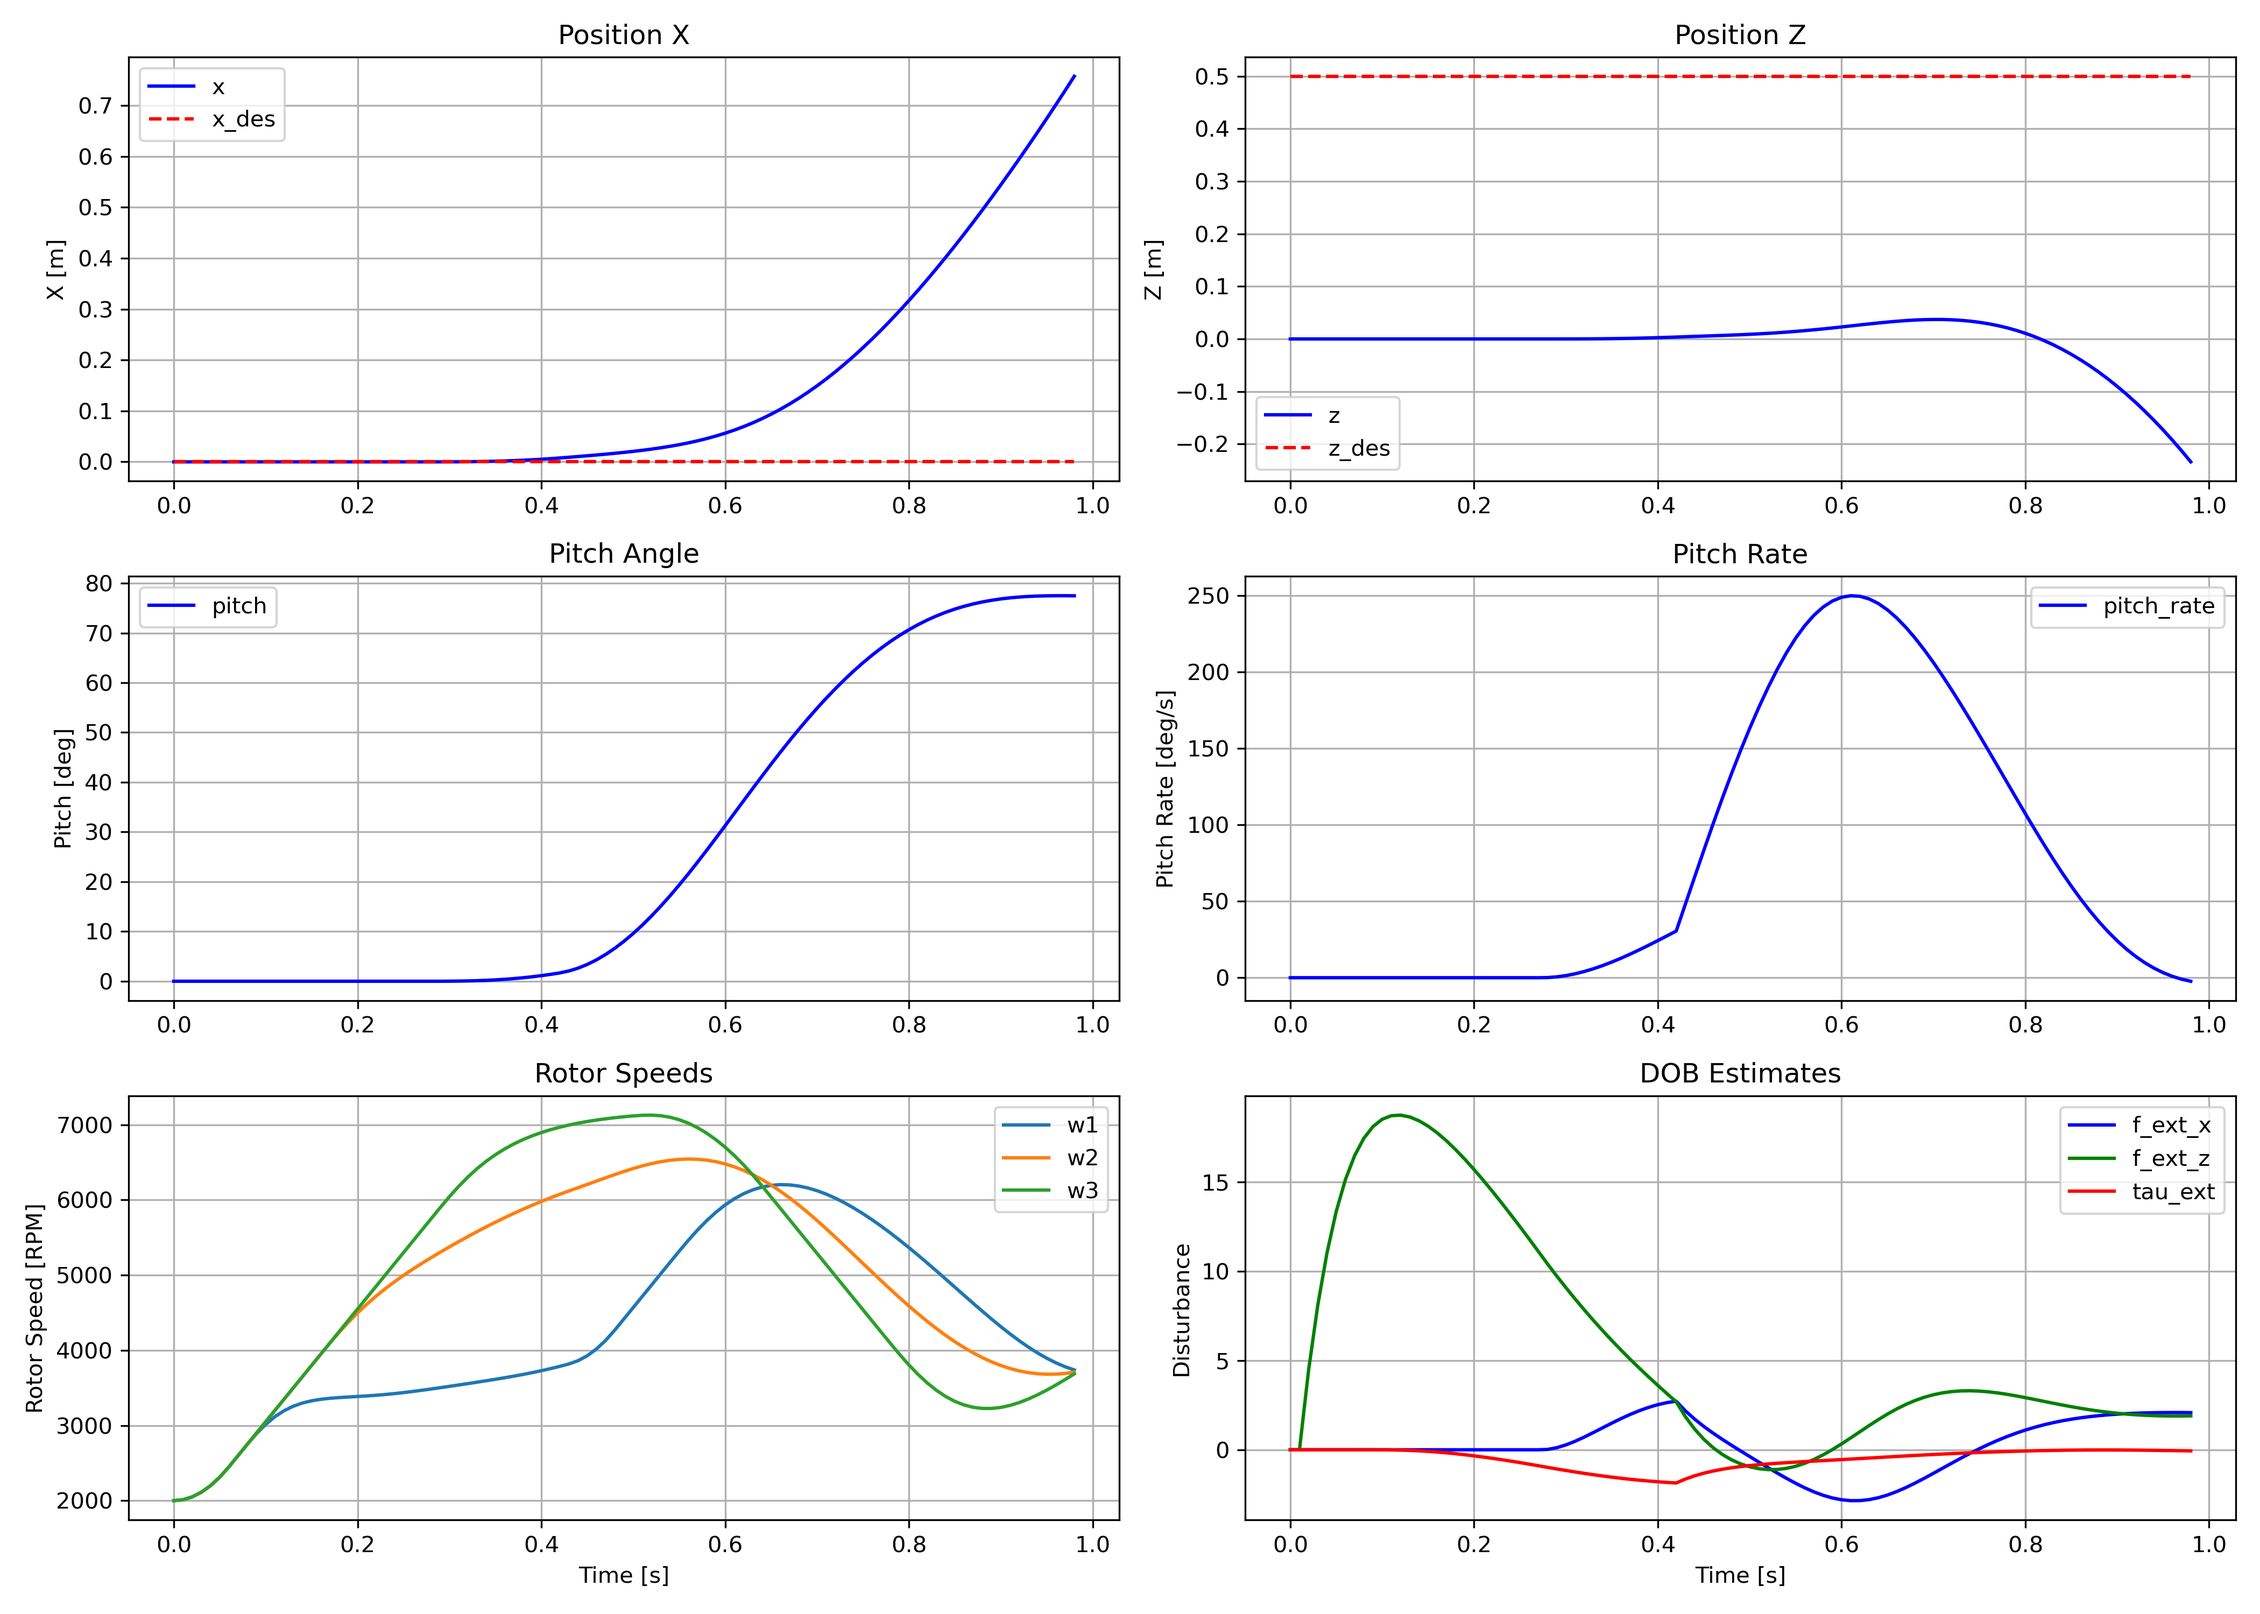
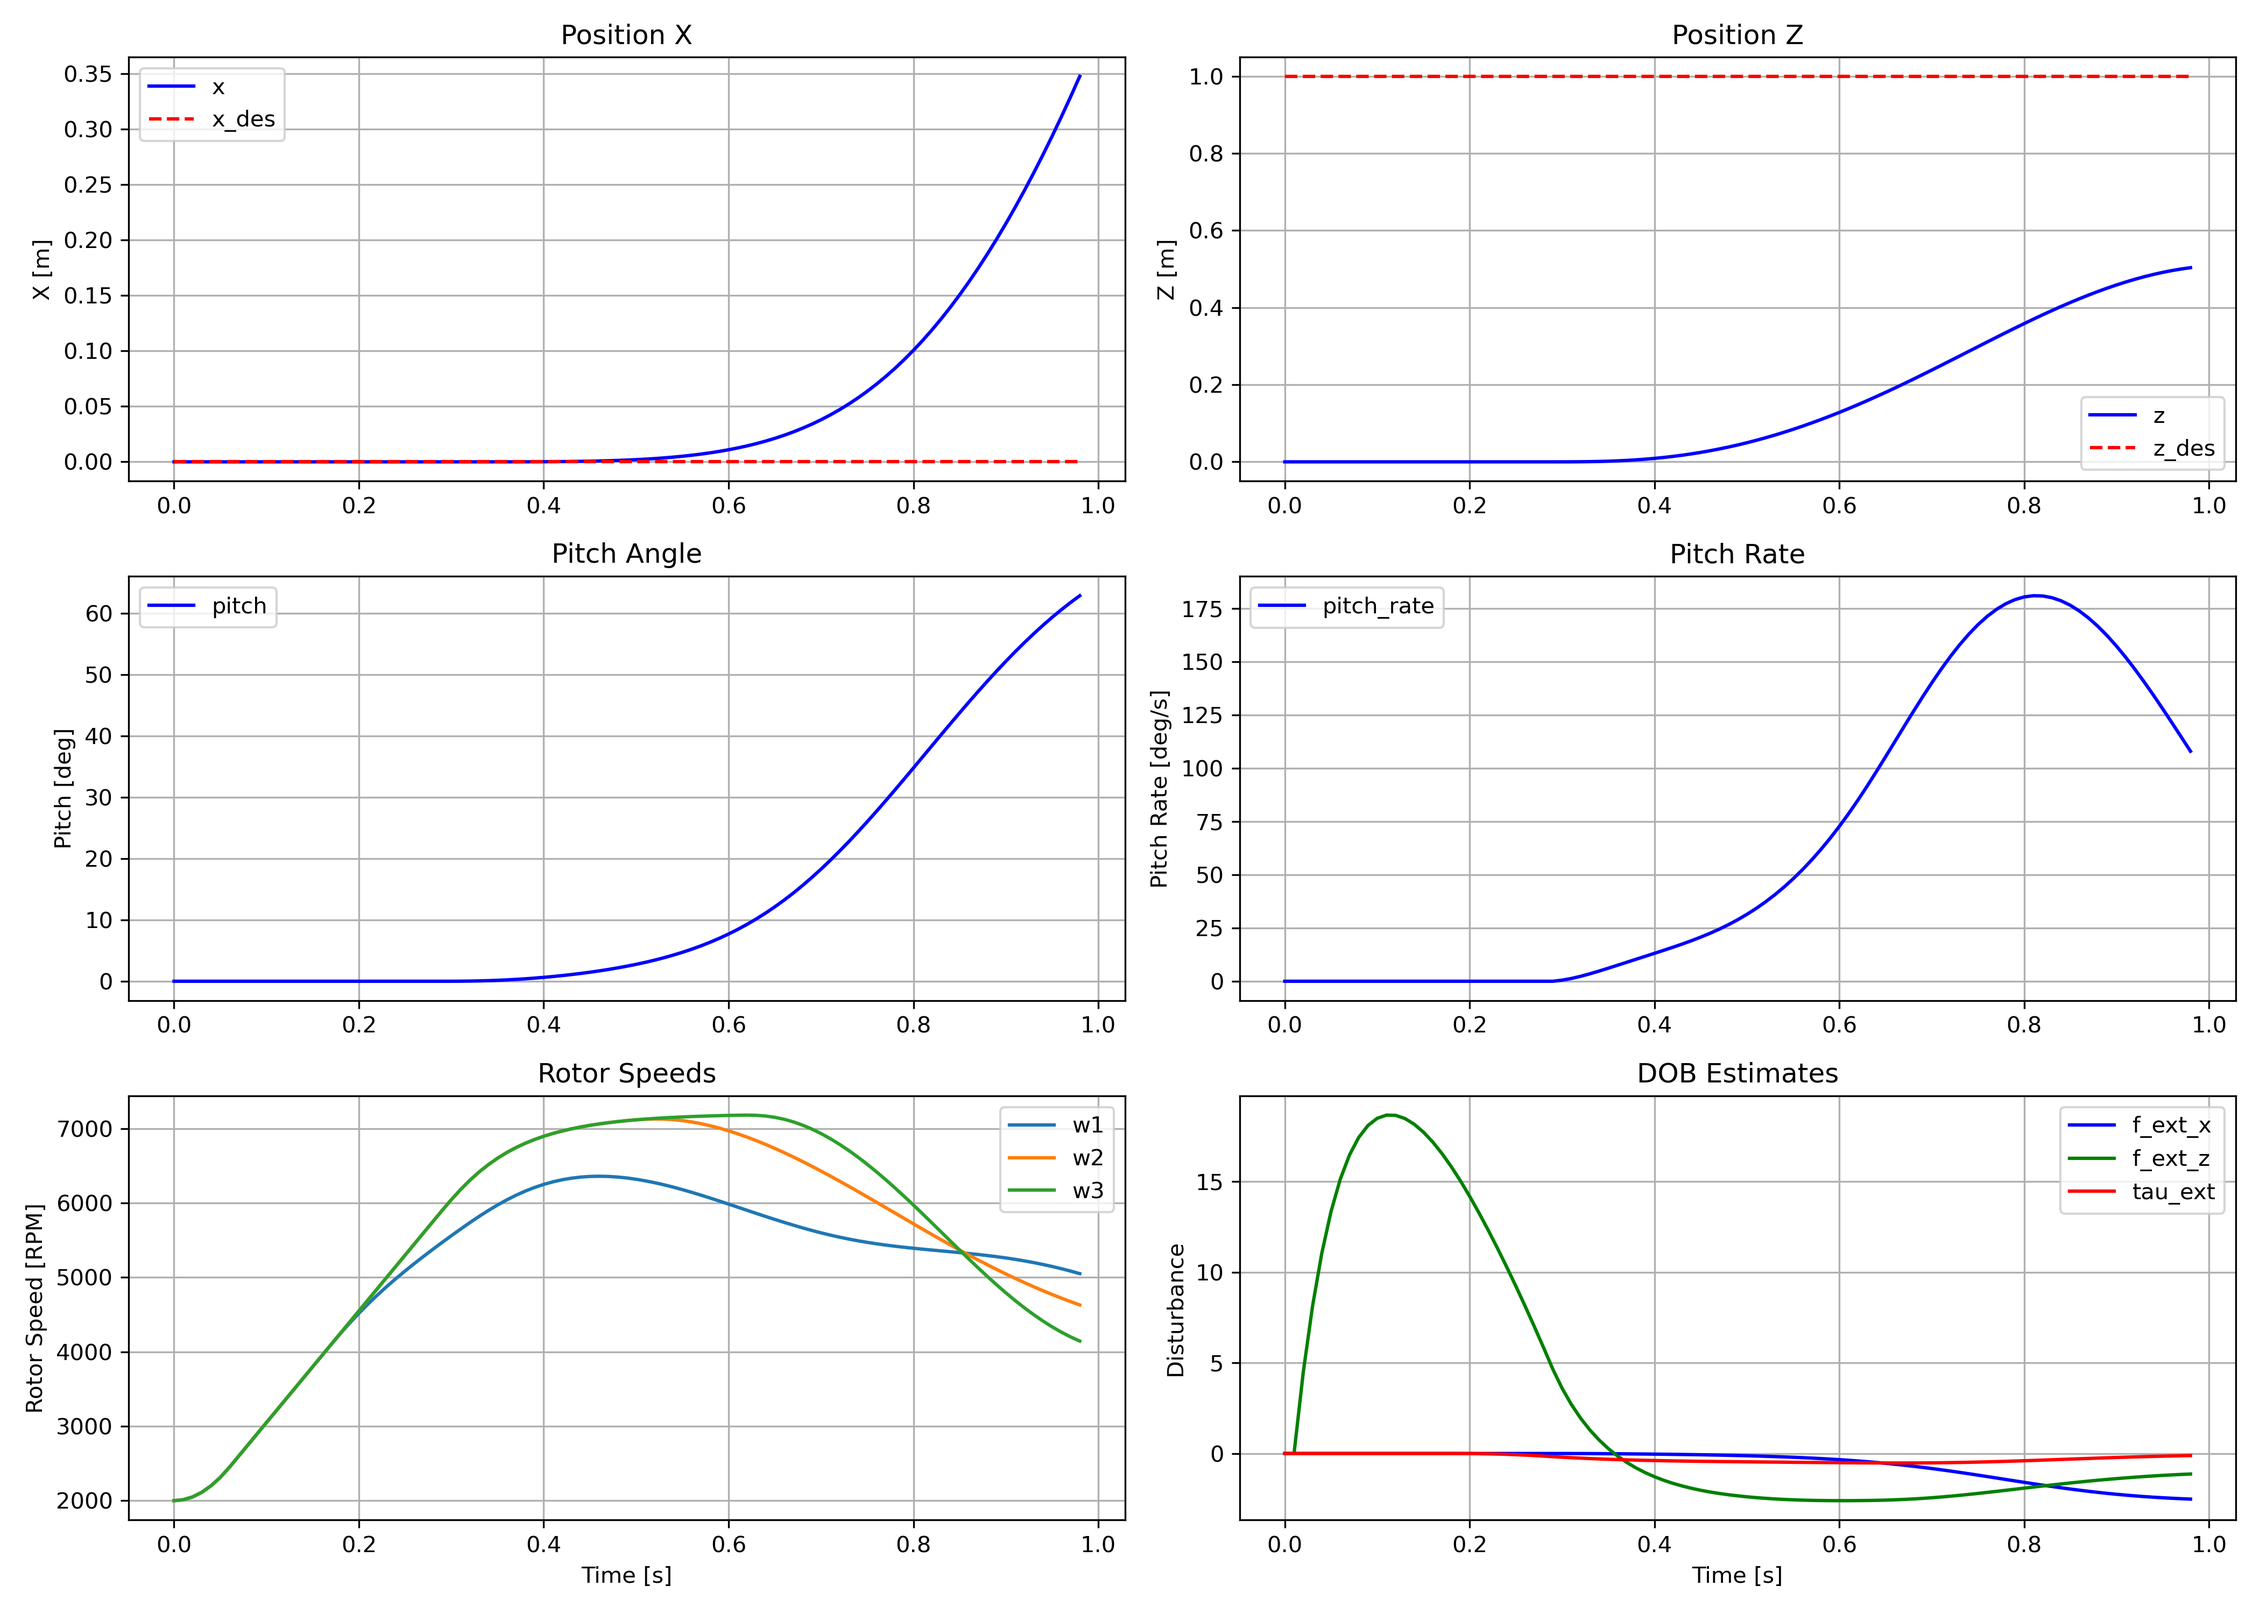
hgdo3d fixed

diff --git a/main_control_3d.py b/main_control_3d.py
@@ -203,7 +203,7 @@ def main():
     tau_est_hist = []
 
     # Reference: simple hover at z=1.0
-    p_des = np.array([0.0, 0.5])  # x, z
+    p_des = np.array([0.0, 1.0])  # x, z
     v_des = np.array([0.0, 0.0])  # vx, vz
     ref = np.concatenate([p_des, v_des])
 
@@ -273,8 +273,12 @@ def main():
         #     print(f"t={t_sim[i]:.2f}s, z={p[1]:.3f}m, pitch={np.rad2deg(theta):.2f}deg, "
         #           f"w_rotor=[{w_rotor[0]:.0f}, {w_rotor[1]:.0f}, {w_rotor[2]:.0f}]")
         if i < 100:
-            print(f"t={t_sim[i]:.2f}s, z={p[1]:.3f}m, pitch={np.rad2deg(theta):.2f}deg, "
-                  f"w_rotor=[{w_rotor[0]:.0f}, {w_rotor[1]:.0f}, {w_rotor[2]:.0f}]")
+            print(f"t={t_sim[i]:.2f}s")
+            print(f"p = [ {p[0]:.3f} m, {p[1]:.3f} m]")
+            print(f"pitch = {np.rad2deg(theta):.2f} deg",
+                  f"pitch_rate = {np.rad2deg(q)*1000.0:.2f} mdeg/s")
+            print(f"w_rotor = {w_rotor[0]:.2f}, {w_rotor[1]:.2f}, {w_rotor[2]:.2f} RPM")
+            print(f"dob = {tau_est:.2f} Nm")
 
     # Post-processing
     drone_data = {

diff --git a/estimator/dob/hgdo/hgdo_3d.py b/estimator/dob/hgdo/hgdo_3d.py
@@ -64,7 +64,7 @@ class HGDO3D:
         # Get translational disturbance
         f_ext_w = self.m * (self.gamma_trans + 1.0/self.eps_f*self.v_world)
         R_WB = pitch_to_rotm(th)
-        f_ext = R_WB @ f_ext_w
+        f_ext = R_WB.T @ f_ext_w
 
         tau_ext = [self.Jyy * (self.gamma_rot + 1.0/self.eps_tau*self.q)]
 
@@ -88,9 +88,9 @@ class HGDO3D:
 
         u_M = 1.0/self.Jyy * u[1]
 
-        gamma_rot = (-1.0/self.eps_tau*(gamma_rot + 1.0/self.eps_tau*self.q)
+        gamma_rot_dot = (-1.0/self.eps_tau*(gamma_rot + 1.0/self.eps_tau*self.q)
                      + 1.0/self.eps_tau*(-u_M))
-        return gamma_rot
+        return gamma_rot_dot
 
     def _unpack_state(self, state):
         """Unpack state from state vector"""

diff --git a/sim_model/S550_3d_model.py b/sim_model/S550_3d_model.py
@@ -113,9 +113,6 @@ class S550_3D_Sim_Model:
 
         sdot = self._flight_dynamics(state, u)
 
-        # if self.is_contact == True:
-        #     print('N_f: ', self.N_f, 'N_b: ', self.N_b)
-
         # Check Near zero pitch condition
         if np.abs(theta) <= 0.1*np.pi/180.0 and self.is_contact == True:
             # Compute normal force at near zero pitch
@@ -145,7 +142,6 @@ class S550_3D_Sim_Model:
 
         elif self.is_contact == False:
             sdot = self._flight_dynamics(state, u)
-            # print('No contact')
 
         return sdot
 

diff --git a/control/PID/pitch_control.py b/control/PID/pitch_control.py
@@ -98,7 +98,7 @@ class PitchControl:
         if self.DobMode is False:
             f_des = self.m * linear_accelCmd
         else:
-            f_des = self.m * linear_accelCmd - R_WB @ f_ext
+            f_des = self.m * linear_accelCmd - R_WB @ np.array([0.0, f_ext[1]])
 
         self.u[0] = f_des.dot(R_WB[:,1])
 
